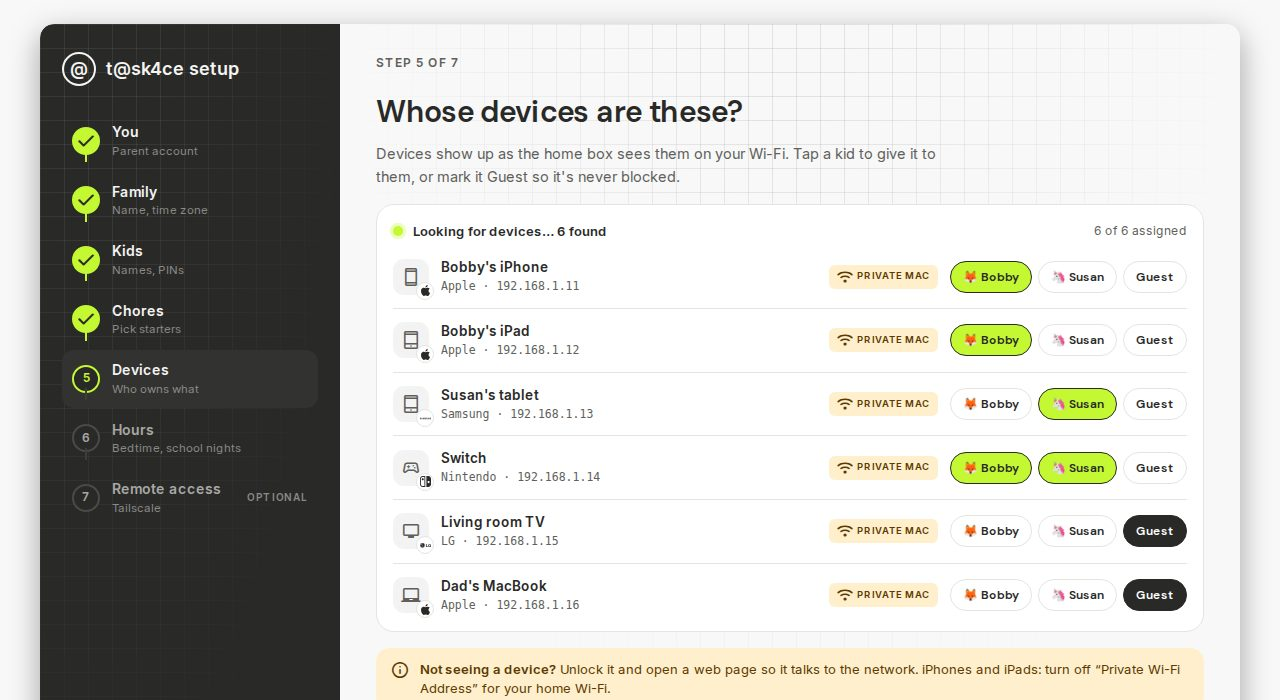
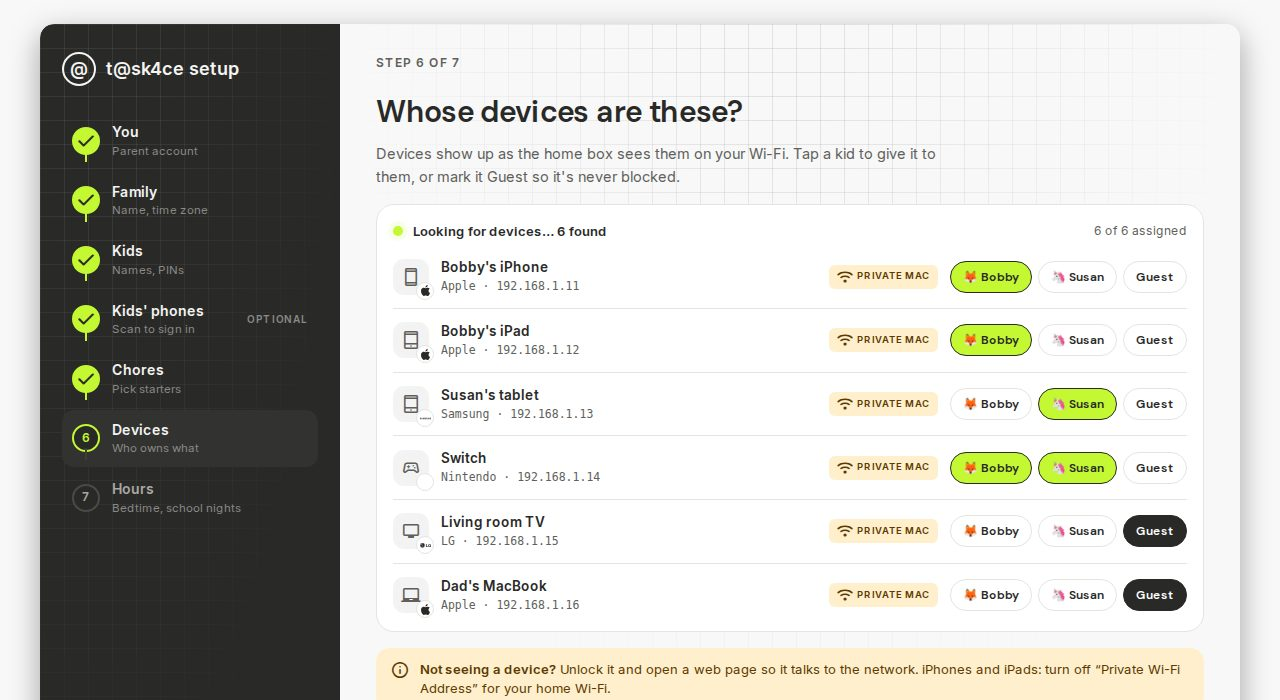
docs: retake wizard guide images for 7 steps
Claude-Session: https://claude.ai/code/session_011K7jrVbDK9XkJbLGVTb23M

diff --git a/docs/guide/img/SHOTS.md b/docs/guide/img/SHOTS.md
@@ -19,7 +19,7 @@ Taken with Playwright from a demo family (kids Bobby and Susan), read-only: ever
 | `kid-chore.jpg` | Kid page: one chore opened with chained steps, "I'm done!" held back. |
 | `kid-locker.jpg` | Kid **Customize** (Locker): name card preview, slot tabs, locked items with unlock level. |
 | `setup-claim.jpg` | Box code screen (phone), empty, from the sticker's **Open my box** link. |
-| `setup-phones.jpg` | Setup wizard step 4 "Kids' phones" (phone). The QR is a mock pattern. |
+| `setup-phones.jpg` | Setup wizard step 4 "Kids' phones" (phone), Bobby's code shown. The QR is a mock pattern. Retaken 2026-11-06 for the 7-step wizard. |
 | `kid-welcome.jpg` | Kid welcome page after scanning a code (iPhone steps). |
 | `group-price.jpg` | **Devices → Groups**, one group open with **Screen time price** filled in (phone). Mocked API. |
 | `kid-screen-for.jpg` | Kid **Rewards** (phone): **What for?** picker with Consoles selected. Mocked API. |
